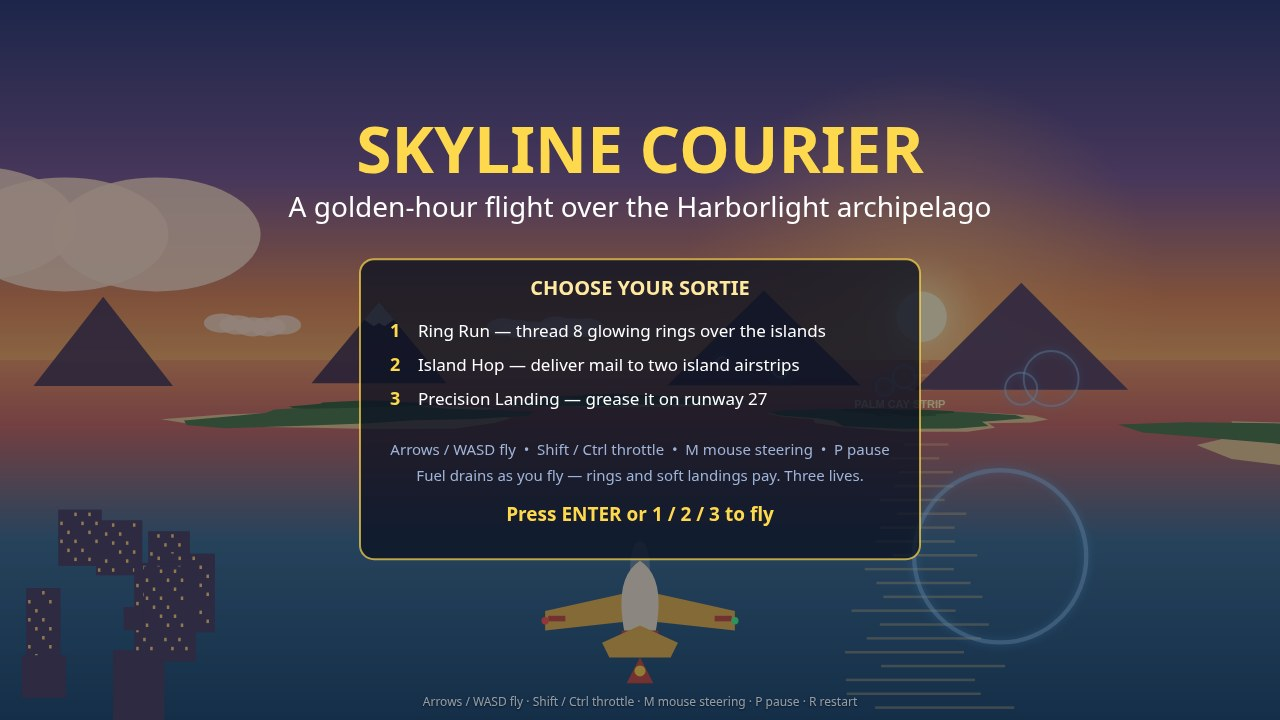
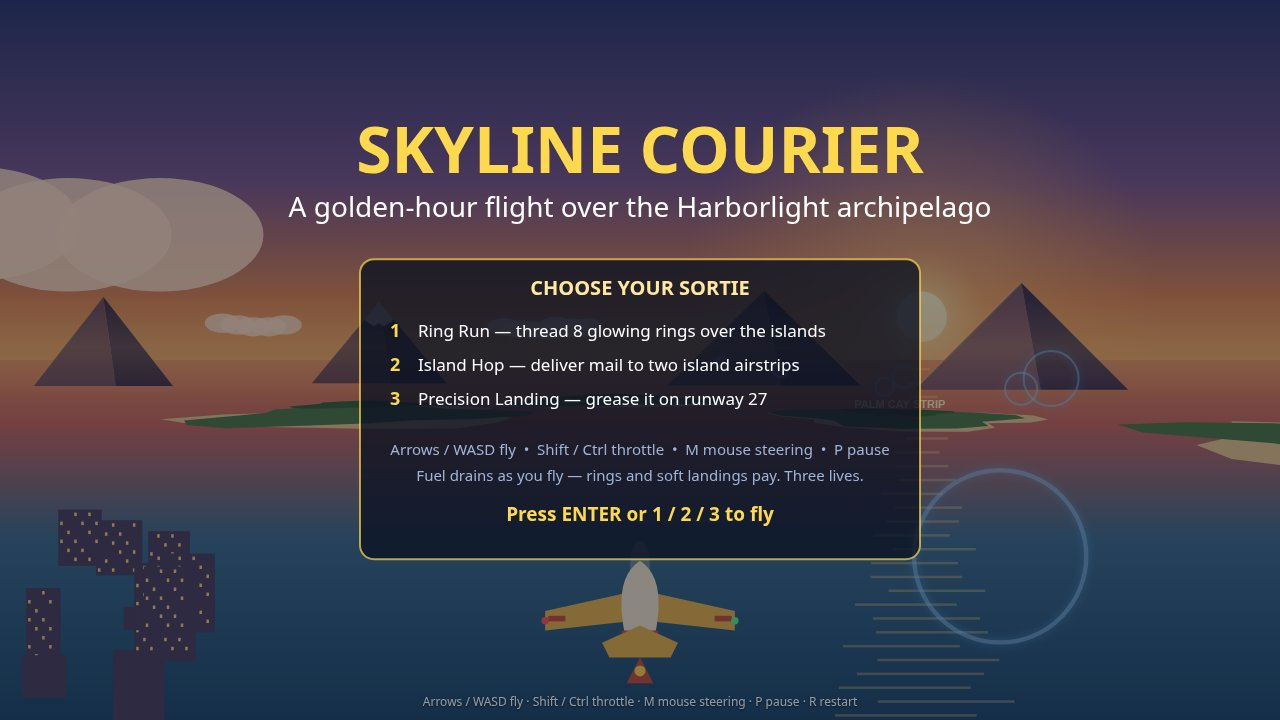
Reviser: shaded mountain facets + horizon haze, touchdown readout (BUTTER/FIRM/HARD)
- render.js: each mountain now has a warm sunlit face and a cool shadow
  face split at the ridge, plus a ridge highlight and a golden haze band
  hugging the horizon so distant peaks melt into the sky.
- missions.js: landingBonus now also returns a one-word verdict
  (BUTTER/FIRM/HARD, graded on the same quality curve) and the touchdown
  vertical speed. Scoring values unchanged.
- main.js/hud.js: every touchdown shows 'TOUCHDOWN -x.x m/s - VERDICT'
  on the HUD for ~5s, and the end screen reports the touchdown rate and
  verdict under the landing line. Fixed the end-screen layout so the new
  line no longer collides with FINAL SCORE, and guarded the initial
  parked frame so it does not count as a touchdown.
- screenshots/: re-captured all four deterministic shots (1280x720) from
  the running game; all under 256 KiB.

diff --git a/game/src/main.js b/game/src/main.js
@@ -40,6 +40,9 @@ const game = {
   landTimer: 0,
   totalRings: 0,
   bestLanding: null,
+  // The courier starts parked on the runway: the first frame is not a
+  // touchdown, so the grace readout must not fire until it has flown.
+  wasOnGround: true,
 };
 
 function resize() {
@@ -61,6 +64,7 @@ function startMission(index) {
   game.timeLeft = game.mission.timeLimit;
   game.state = 'playing';
   game.landTimer = 0;
+  game.wasOnGround = true;
   showFlash(game.mission.title, 3);
   audio.ensure();
 }
@@ -72,6 +76,7 @@ function respawn() {
   // count again until it has genuinely flown.
   game.mission.armed = game.mission.id === 'rings';
   game.state = 'playing';
+  game.wasOnGround = true;
   showFlash('Back on the runway — fly safe', 2.5);
 }
 
@@ -146,6 +151,8 @@ function update(dt) {
         const bonus = landingBonus(Math.abs(p.verticalSpeed), hit ? hit.across : 20, p.speed);
         game.score += bonus.score;
         game.bestLanding = bonus;
+        game.touchdown = { vs: Math.abs(p.verticalSpeed), verdict: bonus.verdict };
+        game.touchdownUntil = game.time + 6;
         finishMission();
         showFlash(`${bonus.label}  +${bonus.score}`, 2.5);
       }
@@ -156,6 +163,12 @@ function update(dt) {
     if (p.onGround && !game.wasOnGround) {
       const impact = Math.abs(p.verticalSpeed);
       const hit = landingCheck(p, world);
+      // Grace readout: every touchdown reports its vertical speed and
+      // one-word verdict for a few seconds on the HUD, whether or not
+      // it scored (delivery stops and practice bounces included).
+      const grade = landingBonus(impact, hit ? hit.across : 20, p.speed);
+      game.touchdown = { vs: impact, verdict: grade.verdict };
+      game.touchdownUntil = game.time + 5;
       if (impact > 7 || !hit) {
         crash(impact > 7 ? 'HARD IMPACT' : 'ROUGH TERRAIN');
       } else if (impact > 3.5) {
@@ -292,6 +305,17 @@ function drawEndScreen(width, height, complete) {
     ctx.fillText(game.mission.title, width / 2, height * 0.3 + 42);
     if (game.bestLanding) {
       ctx.fillText(`Landing: ${game.bestLanding.label}`, width / 2, height * 0.3 + 78);
+      const td = game.touchdown || game.bestLanding;
+      const vs = td.vs ?? game.bestLanding.verticalSpeed;
+      if (vs != null) {
+        ctx.fillStyle = '#cfe6ff';
+        ctx.font = '20px "Segoe UI", system-ui, sans-serif';
+        ctx.fillText(
+          `Touchdown −${vs.toFixed(1)} m/s  •  ${td.verdict || game.bestLanding.verdict || ''}`,
+          width / 2,
+          height * 0.3 + 110,
+        );
+      }
     }
   } else {
     ctx.fillStyle = '#ff7a5e';
@@ -303,16 +327,16 @@ function drawEndScreen(width, height, complete) {
   }
   ctx.fillStyle = '#ffe9a0';
   ctx.font = 'bold 30px "Segoe UI", system-ui, sans-serif';
-  ctx.fillText(`FINAL SCORE  ${game.score}`, width / 2, height * 0.48);
+  ctx.fillText(`FINAL SCORE  ${game.score}`, width / 2, height * 0.52);
   ctx.fillStyle = '#cfe6ff';
   ctx.font = '18px "Segoe UI", system-ui, sans-serif';
-  ctx.fillText(`Rings flown: ${game.totalRings}   •   Missions flown: ${game.missionIndex + 1} of 3`, width / 2, height * 0.48 + 36);
+  ctx.fillText(`Rings flown: ${game.totalRings}   •   Missions flown: ${game.missionIndex + 1} of 3`, width / 2, height * 0.52 + 36);
   ctx.fillStyle = '#ffd94d';
   ctx.font = 'bold 20px "Segoe UI", system-ui, sans-serif';
   ctx.fillText(
     complete ? 'Press ENTER for the next mission' : 'Press ENTER to fly again',
     width / 2,
-    height * 0.62,
+    height * 0.66,
   );
   ctx.restore();
 }
@@ -390,7 +414,8 @@ function applyShot() {
     startMission(2);
     game.score = 1450;
     game.totalRings = 8;
-    game.bestLanding = { score: 235, quality: 0.94, label: 'BUTTER SMOOTH!' };
+    game.bestLanding = { score: 235, quality: 0.94, label: 'BUTTER SMOOTH!', verdict: 'BUTTER', verticalSpeed: 1.8 };
+    game.touchdown = { vs: 1.8, verdict: 'BUTTER' };
     game.state = 'missionComplete';
   }
 }

diff --git a/game/src/render.js b/game/src/render.js
@@ -64,6 +64,7 @@ export function renderScene(ctx, game, width, height, time, opts = {}) {
   drawSky(ctx, cam, width, height, time);
   drawSea(ctx, cam, width, height, time);
   drawMountains(ctx, cam, world);
+  drawHaze(ctx, cam, width, height);
   drawIslands(ctx, cam, world);
   drawCity(ctx, cam, world);
   drawRunway(ctx, cam, world);
@@ -129,13 +130,42 @@ function drawMountains(ctx, cam, world) {
     const halfW = (m.w / 2) * base.scale;
     if (halfW < 4) continue;
     const shade = clamp(1 - base.z / 12000, 0.25, 1);
-    ctx.fillStyle = `rgba(${Math.round(88 * shade + 40)}, ${Math.round(74 * shade + 30)}, ${Math.round(120 * shade + 40)}, 0.9)`;
+    // Two facets: the sun (low, west) lights the left face warm, while
+    // the right face falls into cool shadow. The ridge foot sits a
+    // little right of centre so the lit face reads wider, as it would
+    // with the sun off to the west.
+    const ridgeX = base.x + halfW * 0.18;
+    const lit = {
+      r: Math.round(168 * shade + 40),
+      g: Math.round(118 * shade + 30),
+      b: Math.round(138 * shade + 40),
+    };
+    const shad = {
+      r: Math.round(58 * shade + 26),
+      g: Math.round(50 * shade + 22),
+      b: Math.round(96 * shade + 34),
+    };
+    ctx.fillStyle = `rgba(${lit.r}, ${lit.g}, ${lit.b}, 0.92)`;
     ctx.beginPath();
     ctx.moveTo(base.x - halfW, base.y);
+    ctx.lineTo(peak.x, peak.y);
+    ctx.lineTo(ridgeX, base.y);
+    ctx.closePath();
+    ctx.fill();
+    ctx.fillStyle = `rgba(${shad.r}, ${shad.g}, ${shad.b}, 0.92)`;
+    ctx.beginPath();
+    ctx.moveTo(ridgeX, base.y);
     ctx.lineTo(peak.x, peak.y);
     ctx.lineTo(base.x + halfW, base.y);
     ctx.closePath();
     ctx.fill();
+    // Ridge highlight: a thin warm line down the lit edge of the peak.
+    ctx.strokeStyle = `rgba(255, 214, 150, ${0.5 * shade})`;
+    ctx.lineWidth = Math.max(1, halfW * 0.02);
+    ctx.beginPath();
+    ctx.moveTo(peak.x, peak.y);
+    ctx.lineTo(base.x - halfW, base.y);
+    ctx.stroke();
     if (m.snow) {
       ctx.fillStyle = 'rgba(255, 240, 220, 0.85)';
       ctx.beginPath();
@@ -149,6 +179,19 @@ function drawMountains(ctx, cam, world) {
       ctx.fill();
     }
   }
+}
+
+/** A thin band of golden haze hugging the horizon, so distant peaks
+ *  melt into the sky instead of ending in a hard line. */
+function drawHaze(ctx, cam, width, height) {
+  const band = height * 0.09;
+  const top = cam.horizonY - band;
+  const g = ctx.createLinearGradient(0, top, 0, cam.horizonY + band * 0.6);
+  g.addColorStop(0, 'rgba(255, 196, 120, 0)');
+  g.addColorStop(0.5, 'rgba(255, 196, 120, 0.22)');
+  g.addColorStop(1, 'rgba(255, 196, 120, 0)');
+  ctx.fillStyle = g;
+  ctx.fillRect(0, top, width, band * 1.6);
 }
 
 function projectPolygon(ctx, cam, points, y) {

diff --git a/game/src/hud.js b/game/src/hud.js
@@ -105,6 +105,23 @@ export function drawHud(ctx, game, width, height) {
     ctx.restore();
   }
 
+  // --- touchdown readout: vertical speed + one-word verdict ------------
+  // Shown briefly after any touchdown, reusing the landing-bonus grade.
+  if (game.touchdown && game.time < (game.touchdownUntil || 0)) {
+    ctx.save();
+    ctx.textAlign = 'center';
+    ctx.font = 'bold 19px "Segoe UI", system-ui, sans-serif';
+    const td = game.touchdown;
+    const text = `TOUCHDOWN  −${td.vs.toFixed(1)} m/s  •  ${td.verdict}`;
+    const w = ctx.measureText(text).width;
+    ctx.fillStyle = 'rgba(12, 18, 34, 0.66)';
+    roundRect(ctx, width / 2 - w / 2 - 16, height - 96, w + 32, 40, 10);
+    ctx.fill();
+    ctx.fillStyle = td.verdict === 'BUTTER' ? '#ffd94d' : td.verdict === 'FIRM' ? '#ffe9a0' : '#ff7a5e';
+    ctx.fillText(text, width / 2, height - 76);
+    ctx.restore();
+  }
+
   // --- low-fuel warning ----------------------------------------------------
   if (plane.fuel < 25 && plane.fuel > 0 && Math.floor(game.time * 2) % 2 === 0) {
     ctx.save();

diff --git a/game/src/missions.js b/game/src/missions.js
@@ -161,5 +161,11 @@ export function landingBonus(verticalSpeed, across, speed) {
     score: Math.round(quality * 250),
     quality,
     label: quality > 0.8 ? 'BUTTER SMOOTH!' : quality > 0.55 ? 'Nice landing' : 'A bit rough',
+    // One-word touchdown verdict, graded on the same softness curve
+    // that sets the score (unchanged): soft = BUTTER, firm = FIRM,
+    // anything rougher = HARD. verticalSpeed echoes the input so the
+    // HUD can report the touchdown rate without recomputing it.
+    verdict: quality > 0.8 ? 'BUTTER' : quality > 0.55 ? 'FIRM' : 'HARD',
+    verticalSpeed,
   };
 }
